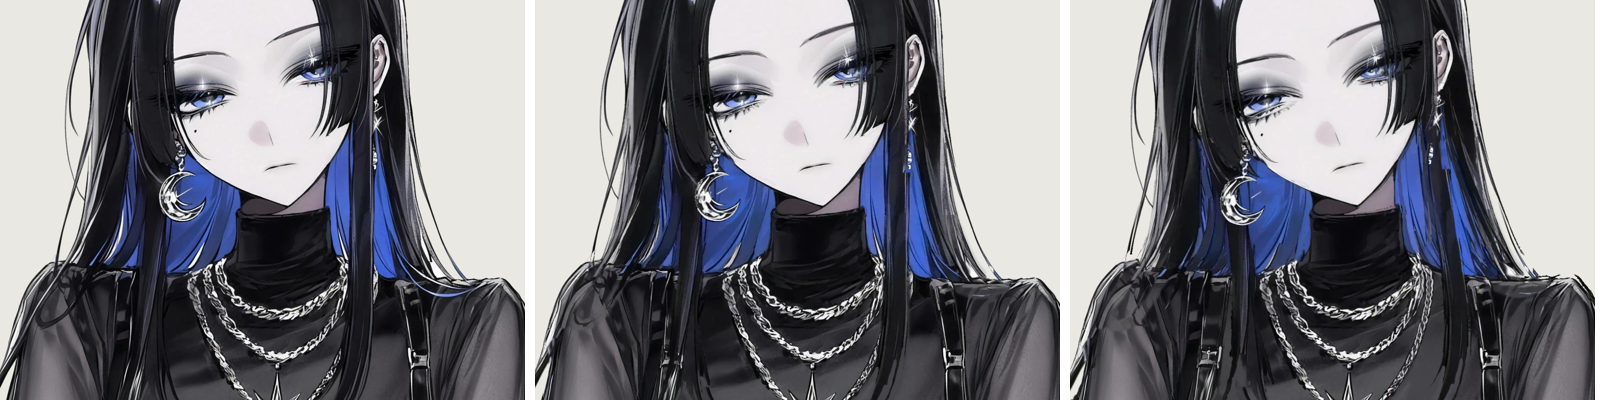
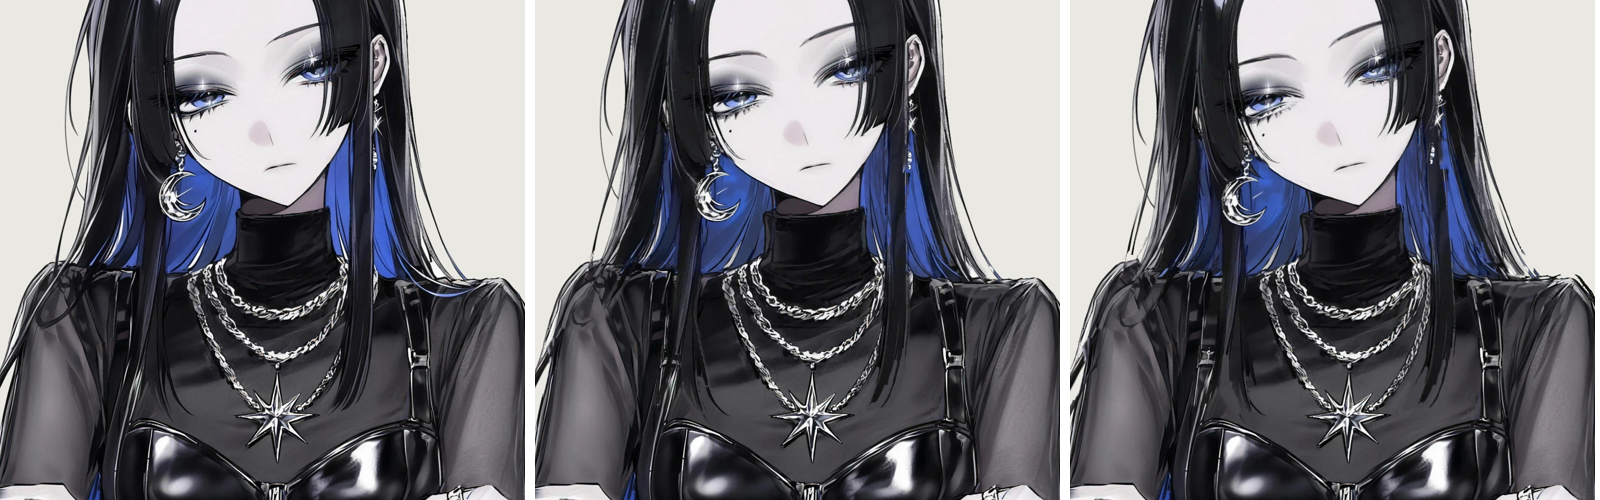
머리카락 리깅을 확정값으로 되돌림, 회색·파란 안쪽 머리는 몸 뒤 층으로(고개 따라 살짝만, 끝은 몸에 가려짐), 상하 움직임은 배율 없이
Claude-Session: https://claude.ai/code/session_015z2jERGhkXRnxmKCmzk3Uw

diff --git a/work/celeste/rig/rig.js b/work/celeste/rig/rig.js
@@ -98,10 +98,10 @@ window.CelesteRig = async function(cv, opt = {}){
     const pointing = S.pointer && Number.isFinite(S.pointer.x) && performance.now() - S.pointer.t < 2500;
     // 가만히 있어도 여러 느린 흔들림이 겹쳐 미세하게 움직이고, 가끔 천천히 다른 곳을 본다
     const idleX = (Math.sin(t*.37)*3.0 + Math.sin(t*.61 + 1.3)*1.8 + Math.sin(t*1.13 + .4)*.55)*opt.motion;
-    const idleY = Math.sin(t*.29 + 2)*.05*opt.motion;
+    const idleY = Math.sin(t*.29 + 2)*.05;                    // 상하는 확정값 그대로(배율 없음)
     let glance = false;
-    if(pointing){ H.tx = clamp((S.pointer.x - FACE_X)/60, -10, 10)*opt.motion; H.ty = clamp((S.pointer.y - 880)/1500, -.15, .15)*opt.motion; }
-    else if(t > H.next){ const look = Math.random() < .45; H.tx = (look ? rnd(-9, 9) : rnd(-2, 2))*opt.motion; H.ty = (look ? rnd(-.12, .08) : 0)*opt.motion; H.next = t + rnd(3, 7.5); glance = look; }
+    if(pointing){ H.tx = clamp((S.pointer.x - FACE_X)/60, -10, 10)*opt.motion; H.ty = clamp((S.pointer.y - 880)/1500, -.15, .15); }
+    else if(t > H.next){ const look = Math.random() < .45; H.tx = (look ? rnd(-9, 9) : rnd(-2, 2))*opt.motion; H.ty = look ? rnd(-.12, .08) : 0; H.next = t + rnd(3, 7.5); glance = look; }
     spring(H, 7, H.tx + idleX + S.tilt.x*5, H.ty + idleY + S.tilt.y*.1, dt, 5.3);    // 느리고 부드럽게 (거의 임계 감쇠)
     // 상체는 고개의 1/4쯤을 늦게 따라온다 → 목이 덜 꺾인다
     spring(S.torso, 4, H.x*.33, 0, dt, 4);
@@ -143,8 +143,8 @@ window.CelesteRig = async function(cv, opt = {}){
     for(const d of Object.values(STR)){
       const c = d.c, n = c.x.length; c.x[0] = H.x;
       for(let i=1;i<n;i++){
-        const pull = (c.x[i-1] - c.x[i])*55, home = (H.x - c.x[i])*18;      // 늦게 따라오되
-        c.v[i] += (pull + home - c.v[i]*4.6)*dt;                             // 한두 번 출렁이고 가라앉는다
+        const pull = (c.x[i-1] - c.x[i])*60, home = (H.x - c.x[i])*25;      // 늦게 따라오되
+        c.v[i] += (pull + home - c.v[i]*6)*dt;                               // 한 번에 가라앉는다 (계속 출렁이지 않게)
       }
       for(let i=1;i<n;i++) c.x[i] += c.v[i]*dt;
     }
@@ -154,7 +154,7 @@ window.CelesteRig = async function(cv, opt = {}){
       e.v += (-e.a*45/e.len + acc*30 - e.v*4.5)*dt; e.a += e.v*dt; e.a = clamp(e.a, -.12, .12);
     }
   }
-  function breathAt(){ return S.breath.v*opt.motion; }
+  function breathAt(){ return S.breath.v; }
 
   // ---------- 자세 ----------
   // 머리는 얼굴·이목구비·귀·귀걸이 고리·앞머리 뿌리를 한 덩어리로: 목을 축으로 살짝 기울고(roll) 옮겨진다.
@@ -192,11 +192,10 @@ window.CelesteRig = async function(cv, opt = {}){
       m.pos[k] = px; m.pos[k+1] = py - .5*(sway*w)*(sway*w)/(y - h.root + 90);
     }
   }
-  let AIR = 0;
   function poseStrand(m, d){                                  // 위쪽(얼굴 옆)은 머리와 한 덩어리, 턱 아래로 갈수록 흔들림
     for(let k=0;k<m.rest.length;k+=2){
       const x = m.rest[k], y = m.rest[k+1], s = clamp((y - d.root[1])/d.len, 0, 1), w = Math.pow(sm(.28, 1, s), 1.1);
-      const lim = 30*opt.motion, sway = lim*Math.tanh(((chainAt(d.c, s) - S.head.x)*d.gain*2.4 + AIR*d.air)/lim);   // 관성 + 숨결에 실린 아주 느린 살랑임
+      const sway = 26*Math.tanh((chainAt(d.c, s) - S.head.x)*d.gain/26);   // 크게 흔들려도 뚝 멈추지 않게 부드러운 한계
       const q = hp(x, y), bt = tp(x, y), hx = bt[0] + (HT.x - S.torso.x)*(1 - s*.5), hy = bt[1];
       m.pos[k] = q[0]*(1-w) + hx*w + sway*w; m.pos[k+1] = q[1]*(1-w) + hy*w - .5*(sway*w)*(sway*w)/(y - d.root[1] + 120);
     }
@@ -214,7 +213,6 @@ window.CelesteRig = async function(cv, opt = {}){
     gl.clearColor(0,0,0,0); gl.clear(gl.COLOR_BUFFER_BIT);
     gl.uniform3f(U.stage, sm(.5,.75,stage), sm(.25,.5,stage), sm(0,.25,stage));
     headXform(t); const b = breathAt(t);
-    AIR = (Math.sin(t*.63) + .55*Math.sin(t*1.07 + 1.9) + b*.8)*6*opt.motion;           // 숨쉴 때 어깨를 타고 머리끝이 살짝 흔들린다
     const B = S.blink, bt = B.t < 0 ? 1 : (t - B.t);
     const one = p=>p < .07 ? p/.07 : p < .11 ? 1 : p < .22 ? 1 - (p-.11)/.11 : 0;          // 감기 빠르게, 뜨기 천천히
     const blink = B.t < 0 ? 0 : Math.max(one(bt), B.double ? one(bt - .26) : 0);
@@ -276,7 +274,7 @@ window.CelesteRig = async function(cv, opt = {}){
       else { [x0, y0] = PARTS.patches[n]; w = imgs[n].naturalWidth; h = imgs[n].naturalHeight; }
       const g = RIG.layers[n]?.group;
       const hair = g === 'hairBack' || g === 'strand' || g === 'underHair';
-      if(g === 'strand'){ const Ld = RIG.layers[n]; STR[n] = {root:Ld.root, len:Ld.len, c:chain(8), ph:0, gain:Ld.soft ? 1.1 : 5.5, air:Ld.soft ? 0 : Ld.root[0] < FACE_X ? 1 : -.8, /* soft = 회색·파란 안쪽 머리: 고개 돌릴 때만 살짝 */ side:Ld.root[0] < FACE_X ? 'L' : 'R'}; }
+      if(g === 'strand'){ const Ld = RIG.layers[n]; STR[n] = {root:Ld.root, len:Ld.len, c:chain(8), ph:0, gain:5.5, side:Ld.root[0] < FACE_X ? 'L' : 'R'}; }
       const bend = n === 'neck' || g === 'body';
       M[n] = mesh(n, x0, y0, w, h, hair ? 14 : bend ? 4 : 1, hair ? 64 : bend ? 24 : 1);   // 머리카락(과 목)만 그물, 나머지는 사각형 하나(휘지 않음)
       if(!RIG.layers[n]) M[n].group = 'patch';
